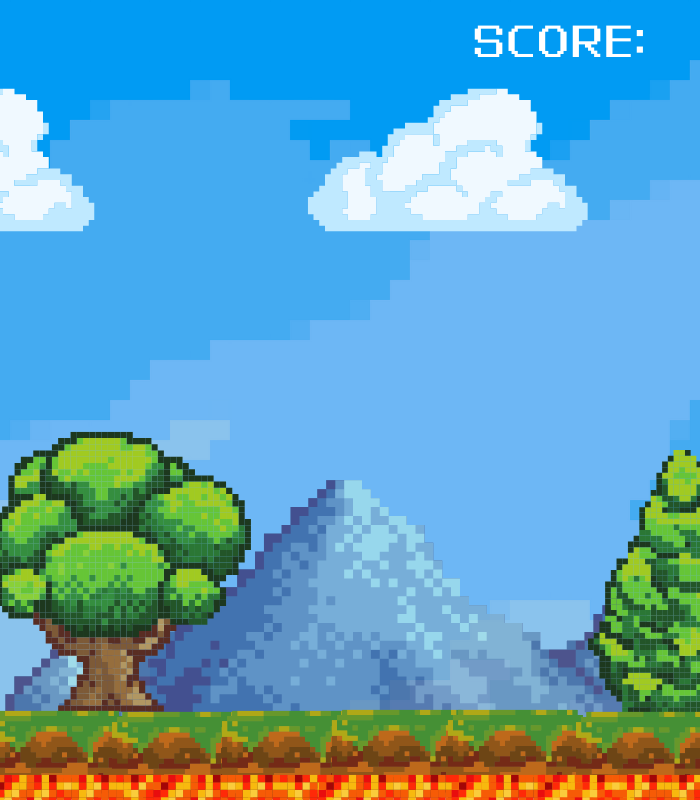
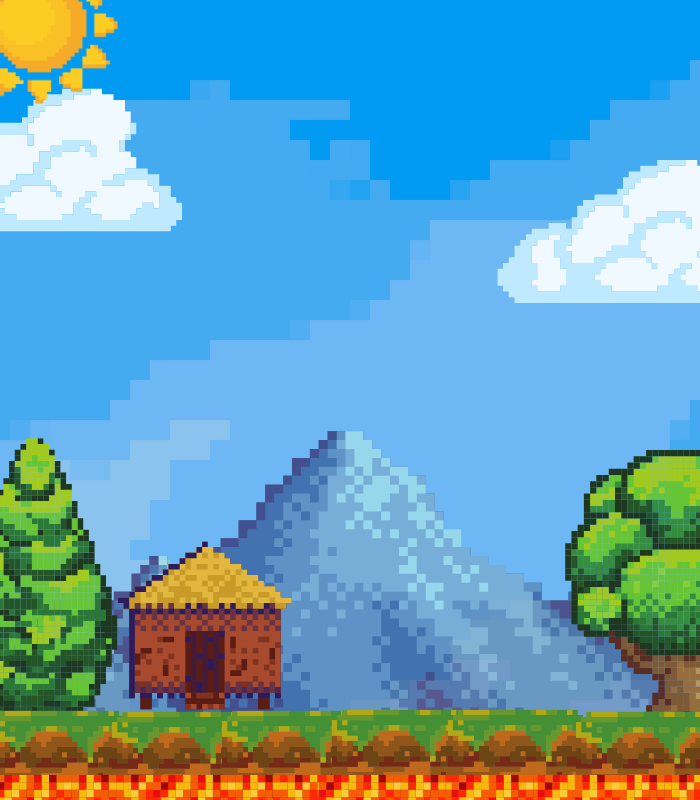
ทำมั่วไปเรื่อย

diff --git a/src/Game/Scene.java b/src/Game/Scene.java
@@ -2,25 +2,26 @@ package Game;
 
 import javax.swing.*;
 import java.awt.*;
-import java.util.ArrayList;
 import java.awt.event.KeyEvent;
 import java.awt.event.KeyListener;
+import java.util.ArrayList;
+import java.util.Random;
+import java.util.Timer;
+import java.util.TimerTask;
 
 public class Scene {
-
 
     private JLabel screen;
     private ArrayList<ImageIcon> backgrounds;
     private JFrame frame;
     private JPanel panel;
-    private int index;
+    private Random random;
 
     public Scene() {
         frame = new JFrame();
         frame.setSize(700, 800);
         frame.setDefaultCloseOperation(JFrame.EXIT_ON_CLOSE);
         frame.setResizable(false);
-        frame.setVisible(true);
 
         panel = new JPanel();
         panel.setLayout(new BorderLayout());
@@ -32,48 +33,45 @@ public class Scene {
         backgrounds.add(new ImageIcon("src/images/background_sunny.png"));
         backgrounds.add(new ImageIcon("src/images/background_sunny2.png"));
         backgrounds.add(new ImageIcon("src/images/background_sunny3.png"));
+
+        random = new Random();
+
+        setBackground();
+        startBackgroundTimer();
         
-        setBackground(); 
+        frame.add(panel);
+        frame.setVisible(true);
     }
-      
-        
+
     private void setBackground() {
         screen = new JLabel();
-        screen.setBounds(0, 0, 700 * backgrounds.size(), 800);
         panel.add(screen, BorderLayout.CENTER);
+        changeBackground();
+    }
 
-        frame.addKeyListener(new KeyListener() {
-            public void keyPressed(KeyEvent e) {
-                if (e.getKeyCode() == KeyEvent.VK_RIGHT) {
-                 // ตรวจการกดปุ่ม ->
-                    if (index < backgrounds.size() - 1) {
-                        index++; 
-                    } else {
-                        index = 0; 
-                    }
-                    screen.setIcon(backgrounds.get(index)); 
-                }
-            }
-            public void keyTyped(KeyEvent e) {}
-            public void keyReleased(KeyEvent e) {}
-        });
-
+    private void changeBackground() {
+        int index = random.nextInt(backgrounds.size());
         screen.setIcon(backgrounds.get(index));
+    }
 
-        frame.add(panel);
+    private void startBackgroundTimer() {
+        Timer timer = new Timer();
+        TimerTask task = new TimerTask() {
+            @Override
+            public void run() {
+                changeBackground();
+            }
+        };
+        // เริ่มต้น Timer สำหรับสุ่มรูปภาพทุก 3 วินาที
+        timer.schedule(task, 0, 3000);
+    }
+
+    public static void main(String[] args) {
+        SwingUtilities.invokeLater(new Runnable() {
+            @Override
+            public void run() {
+                new Scene();
+            }
+        });
     }
 }
-      
-	
-        
-
-        
-        
-        
-        
-  
-        
-  
-
-	
-
